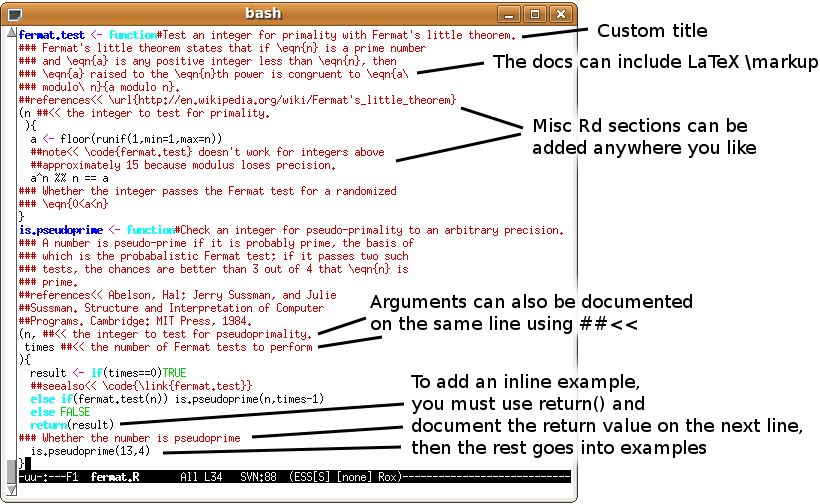
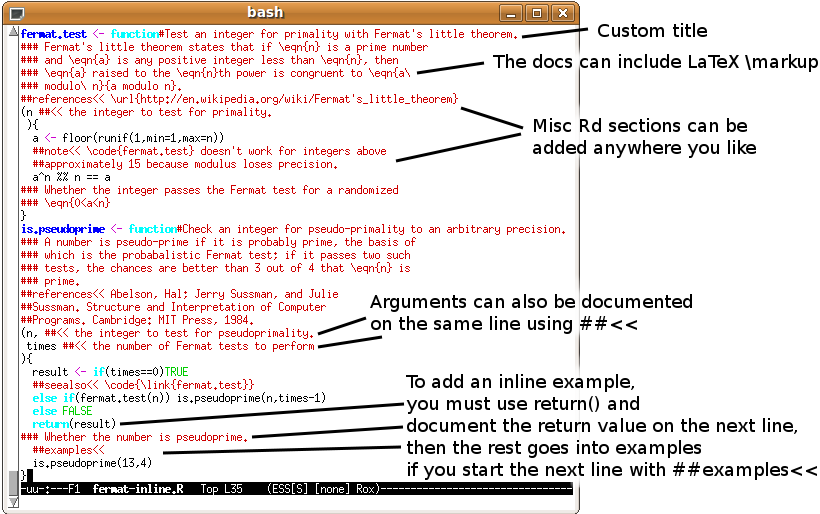
fermat image update to reflect inline examples updated syntax, css readded
git-svn-id: svn://svn.r-forge.r-project.org/svnroot/inlinedocs@117 edb9625f-4e0d-4859-8d74-9fd3b1da38cb

Changed region(s): [[0.0, 0.0, 1.0, 1.0], [0.5488, 0.2083, 0.6098, 0.2381]]

diff --git a/www/estilo1.css b/www/estilo1.css
@@ -1,0 +1,81 @@
+td.home {
+	border-width: 1px;
+	border-spacing: 0px;
+	padding: 2px;
+	border-style: solid;
+	border-color: gray;
+	background-color: white;
+}
+table.home {
+    border-spacing: 0px; 
+    border-collapse: collapse;
+}
+
+body, td {
+	font-family: Arial, Helvetica, sans-serif;
+	color: #1E1E1E;
+	font-size: small;
+}
+
+
+.top {	
+	font-family: Arial, Helvetica, sans-serif;	
+	font-size: small;	
+	font-style: normal;	
+	color: #FFFFFF;	
+	font-weight: bold;
+	background-image: url(../images/centroAzul.gif);
+}
+
+.normal {	
+	font-family: Arial, Helvetica, sans-serif;	
+	font-size: medium;	
+	font-style: normal;	
+	color: #333333;
+}
+
+.subTop {	
+	font-family: Arial, Helvetica, sans-serif;	
+	font-size: medium;	
+	font-style: normal;	
+	font-weight: bold;	
+	color: #333333;
+}
+
+.tabLeft { 
+	background-image: url(../images/botoneraIZ.jpg);  background-repeat: no-repeat;  
+}
+
+.tabRight { 
+	background-image: url(../images/botoneraDE.jpg);  background-repeat: no-repeat;
+	background-position: right;
+}
+
+.tableTab {
+	background-image: url(../images/botoneraBlanca.jpg);
+	background-repeat: repeat-x;
+}
+
+a:link {	
+	color: #0076D5;	
+	text-decoration: none;
+}
+
+a:visited {	
+	color: #004787;
+	text-decoration: none;
+}
+	
+a:hover {	
+	text-decoration: underline;	
+	color: #0076D5;
+}
+
+img {
+	border: 0px;
+}
+
+
+.selectedTab a,.selectedTab a:link, .selectedTab a:hover, .selectedTab a:visited {
+}
+

diff --git a/www/index.html b/www/index.html
@@ -10,7 +10,7 @@
   <head>
 	<meta http-equiv="Content-Type" content="text/html; charset=UTF-8" />
 	<title>inlinedocs</title>
-	<link href="http://r-forge.r-project.org/themes/rforge/styles/estilo1.css" rel="stylesheet" type="text/css" />
+	<link href="estilo1.css" rel="stylesheet" type="text/css" />
   </head>
 
 <body>
